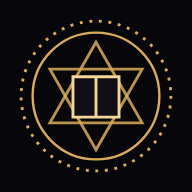
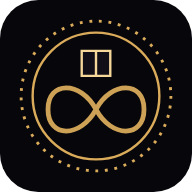
Codex Umbra : symbole ∞ à la place de l'hexagramme (sceau du titre et icônes), sw v20
Claude-Session: https://claude.ai/code/session_01KG5MrjFFaAXqtsPxCwZN3s

diff --git a/apps/codex-umbra/index.html b/apps/codex-umbra/index.html
@@ -16,7 +16,7 @@
     <link rel="stylesheet" href="https://fonts.googleapis.com/css2?family=Cinzel:wght@500;700;900&family=Cormorant+Garamond:ital,wght@0,500;0,600;1,500&family=Inter:wght@400;500;600;700&family=JetBrains+Mono:wght@400;600&display=swap" />
     <link rel="stylesheet" href="https://cdnjs.cloudflare.com/ajax/libs/KaTeX/0.16.11/katex.min.css" />
     <script defer src="https://cdnjs.cloudflare.com/ajax/libs/KaTeX/0.16.11/katex.min.js"></script>
-    <link rel="stylesheet" href="./style.css?v=19" />
+    <link rel="stylesheet" href="./style.css?v=20" />
   </head>
   <body>
     <canvas id="embers" aria-hidden="true"></canvas>
@@ -24,20 +24,20 @@
     <div id="fx" aria-hidden="true"></div>
     <div id="xpdock" aria-hidden="true"></div>
     <div id="toast" role="status" aria-live="polite"></div>
-    <script defer src="./core.js?v=19"></script>
-    <script defer src="./ids.js?v=19"></script>
-    <script defer src="./graph.js?v=19"></script>
-    <script defer src="./kit.js?v=19"></script>
-    <script defer src="./rules.js?v=19"></script>
-    <script defer src="./answers.js?v=19"></script>
-    <script defer src="./c-vec.js?v=19"></script>
-    <script defer src="./c-alg.js?v=19"></script>
-    <script defer src="./c-misc.js?v=19"></script>
-    <script defer src="./c-num.js?v=19"></script>
-    <script defer src="./methods.js?v=19"></script>
-    <script defer src="./story.js?v=19"></script>
-    <script defer src="./art.js?v=19"></script>
-    <script defer src="./music.js?v=19"></script>
-    <script defer src="./app.js?v=19"></script>
+    <script defer src="./core.js?v=20"></script>
+    <script defer src="./ids.js?v=20"></script>
+    <script defer src="./graph.js?v=20"></script>
+    <script defer src="./kit.js?v=20"></script>
+    <script defer src="./rules.js?v=20"></script>
+    <script defer src="./answers.js?v=20"></script>
+    <script defer src="./c-vec.js?v=20"></script>
+    <script defer src="./c-alg.js?v=20"></script>
+    <script defer src="./c-misc.js?v=20"></script>
+    <script defer src="./c-num.js?v=20"></script>
+    <script defer src="./methods.js?v=20"></script>
+    <script defer src="./story.js?v=20"></script>
+    <script defer src="./art.js?v=20"></script>
+    <script defer src="./music.js?v=20"></script>
+    <script defer src="./app.js?v=20"></script>
   </body>
 </html>

diff --git a/apps/codex-umbra/art.js b/apps/codex-umbra/art.js
@@ -40,12 +40,10 @@
 ${[...Array(12)].map((_, i) => `<text x="100" y="27" fill="#d9ab5b" stroke="none" font-size="11" text-anchor="middle" font-family="serif" transform="rotate(${i * 30} 100 100)">${'ᚠᚢᚦᚨᚱᚲᚷᚹᚺᚾᛁᛃ'[i]}</text>`).join('')}
 </g>
 <g class="spin2" fill="none" stroke="#d9ab5b" stroke-width="1.4">
-<polygon points="100,38 154,131 46,131" opacity=".8"/>
-<polygon points="100,162 46,69 154,69" opacity=".8"/>
 <circle cx="100" cy="100" r="56" stroke-dasharray="8 4"/>
 </g>
-<path d="M78 82 h44 v40 h-44z M100 82 v40" fill="#110e17" stroke="#f5d79a" stroke-width="2"/>
-<path d="M84 92h10M84 100h10M84 108h10M106 92h10M106 100h10M106 108h10" stroke="#d9ab5b" stroke-width="1.2"/>
+<path d="M100 114 C117 84 156 84 156 114 C156 144 117 144 100 114 C83 84 44 84 44 114 C44 144 83 144 100 114Z" fill="none" stroke="#d9ab5b" stroke-width="3.2" stroke-linejoin="round" opacity=".95"/>
+<g transform="translate(100 66) scale(.62) translate(-100 -102)"><path d="M78 82 h44 v40 h-44z M100 82 v40" fill="#110e17" stroke="#f5d79a" stroke-width="3"/><path d="M84 92h10M84 100h10M84 108h10M106 92h10M106 100h10M106 108h10" stroke="#d9ab5b" stroke-width="1.8"/></g>
 </svg>`;
 
   A.raven = (size = 36) => `<svg width="${size}" height="${size}" viewBox="0 0 64 64" aria-hidden="true"><path d="M10 40 C14 24 30 14 44 18 L58 14 L50 24 C54 34 46 48 30 50 L18 58 L20 48 C14 48 10 45 10 40Z" fill="#0d0b12" stroke="#d9ab5b" stroke-width="1.5"/><circle cx="42" cy="24" r="2.6" fill="#e9eef5"/><path d="M22 40 C28 36 36 36 42 40" stroke="#d9ab5b" stroke-width="1" fill="none" opacity=".6"/></svg>`;

diff --git a/apps/codex-umbra/sw.js b/apps/codex-umbra/sw.js
@@ -1,5 +1,5 @@
 // Codex Umbra — fonctionnement hors connexion. Changer VERSION à chaque publication.
-const VERSION = 'codex-umbra-v19';
+const VERSION = 'codex-umbra-v20';
 const SHELL = ['./', './index.html', './style.css', './core.js', './ids.js', './graph.js', './kit.js', './rules.js', './answers.js', './c-vec.js', './c-alg.js', './c-misc.js', './c-num.js', './methods.js', './story.js', './art.js', './music.js', './app.js', './manifest.webmanifest', './icon.svg', './icon-192.png', './icon-512.png'];
 self.addEventListener('install', (e) => {
   e.waitUntil(caches.open(VERSION).then((c) => c.addAll(SHELL.map((u) => new Request(u, { cache: 'reload' })))).then(() => self.skipWaiting()));
